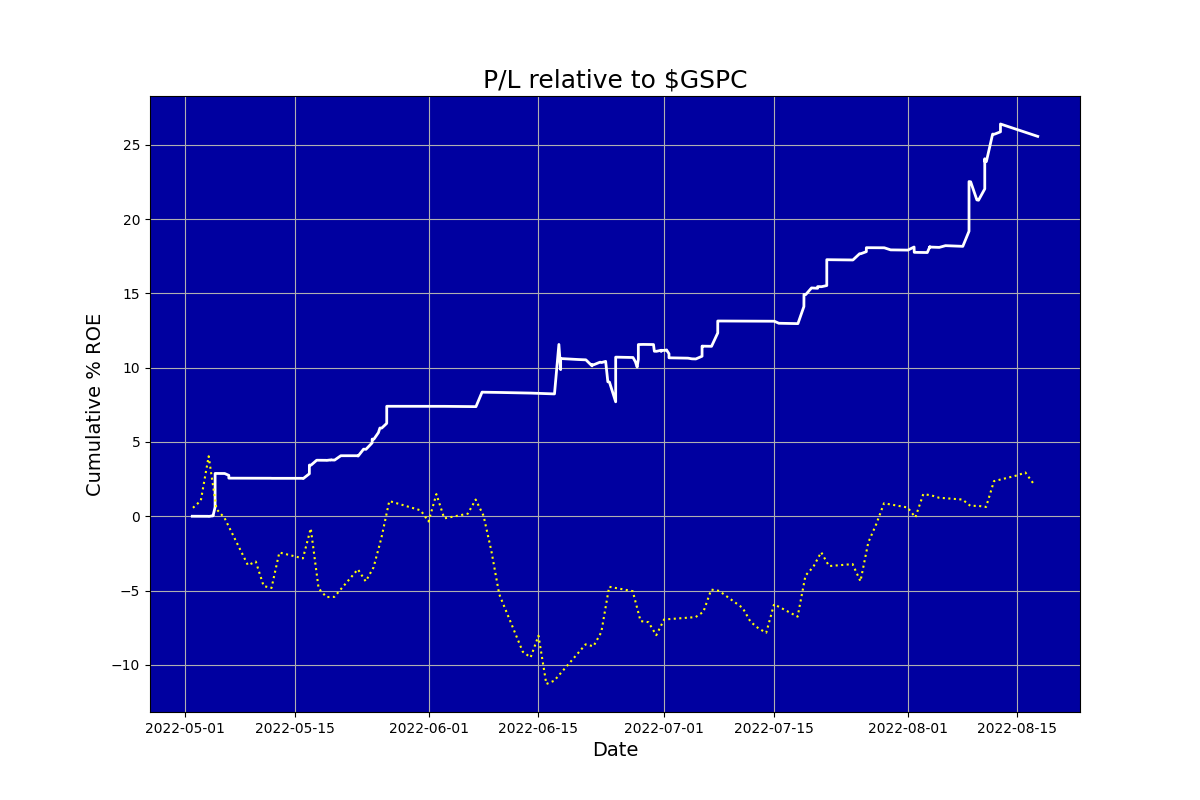
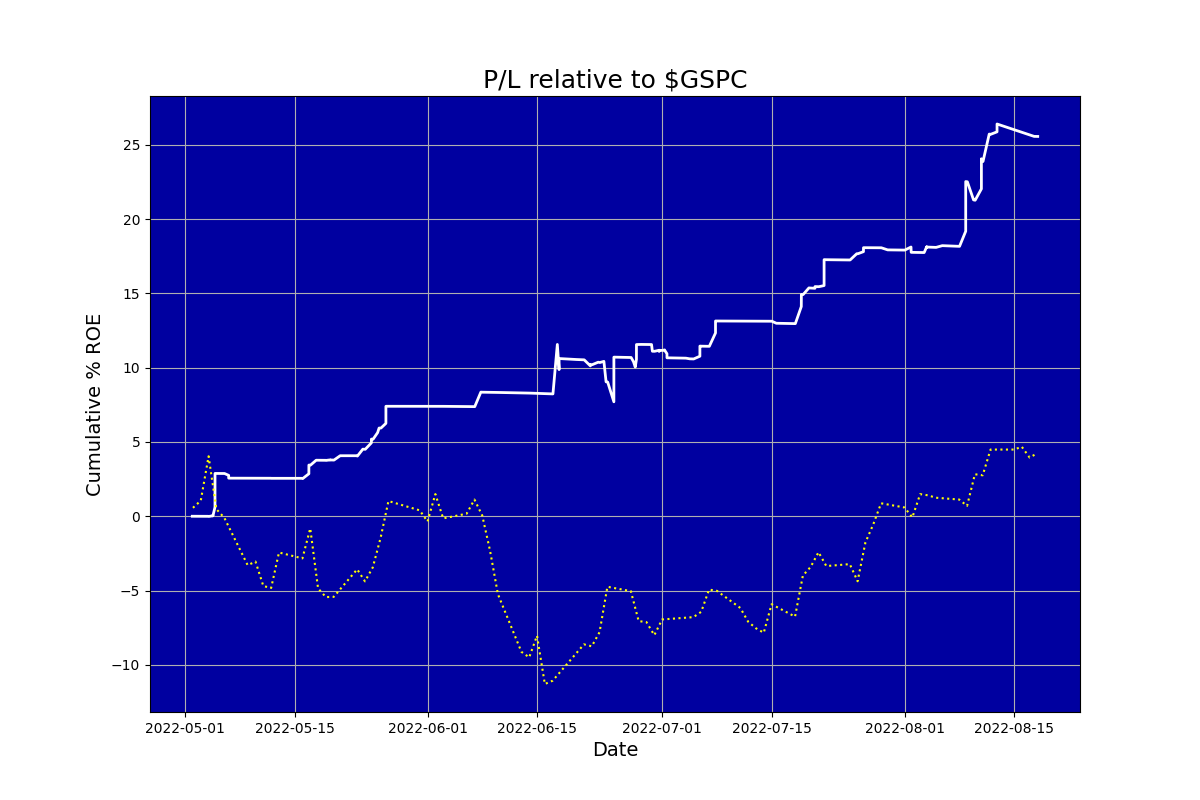
Updated

diff --git a/ig_report.html b/ig_report.html
@@ -1,1 +1,1 @@
-<html><body><center><h1>Auriel (never knowingly overbought)</h1></center><table cols=2><tr><td><img src=ig_pl.png></td><td><table cols=2><tr><td colspan=2><b><br>Snapshot</b></td></tr><tr><td>Last updated:&nbsp;&nbsp;&nbsp;</td><td>2022-08-17 18:43</td></tr><tr><td>Funds:&nbsp;&nbsp;&nbsp;</td><td>14788.89</td></tr><tr><td>Margin:&nbsp;&nbsp;&nbsp;</td><td>0.08</td></tr><tr><td>Cushion:&nbsp;&nbsp;&nbsp;</td><td>-1226.67</td></tr><tr><td>Last closed trade:&nbsp;&nbsp;&nbsp;</td><td>2022-08-17</td></tr><tr><td colspan=2><b><br>Positions</b></td></tr><tr><td>Mean days to new high:&nbsp;&nbsp;&nbsp;</td><td>1.86</td></tr><tr><td colspan=2><b><br>Trades</b></td></tr><tr><td>Num trades:&nbsp;&nbsp;&nbsp;</td><td>87</td></tr><tr><td>Pct winners:&nbsp;&nbsp;&nbsp;</td><td>73.56</td></tr><tr><td>Pct beating benchmark:&nbsp;&nbsp;&nbsp;</td><td>69.77</td></tr><tr><td>Pct profitable months:&nbsp;&nbsp;&nbsp;</td><td>100.00</td></tr><tr><td colspan=2><b><br>Performance</b></td></tr><tr><td>Pct median monthly ROE:&nbsp;&nbsp;&nbsp;</td><td>7.13</td></tr><tr><td>Pct annualised ROE:&nbsp;&nbsp;&nbsp;</td><td>163.02</td></tr><tr><td colspan=2><b><br>Risk</b></td></tr><tr><td>Volatility pct:&nbsp;&nbsp;&nbsp;</td><td>18.08</td></tr><tr><td>Benchmark volatility pct:&nbsp;&nbsp;&nbsp;</td><td>25.16</td></tr><tr><td>Sharpe ratio:&nbsp;&nbsp;&nbsp;</td><td>8.95</td></tr><tr><td>Calmar ratio:&nbsp;&nbsp;&nbsp;</td><td>42.92</td></tr><tr><td>Worst drawdown pct:&nbsp;&nbsp;&nbsp;</td><td>-0.04</td></tr><tr><td>Recovery days from worst drawdown:&nbsp;&nbsp;&nbsp;</td><td>9.00</td></tr><tr><td>Beat benchmark +ve periods pct:&nbsp;&nbsp;&nbsp;</td><td>0.74</td></tr><tr><td>Beat benchmark -ve periods pct:&nbsp;&nbsp;&nbsp;</td><td>1.00</td></tr><tr><td>Correlation with benchmark:&nbsp;&nbsp;&nbsp;</td><td>0.14</td></tr></table></td></tr></table></body></html>
+<html><body><center><h1>Auriel (never knowingly overbought)</h1></center><table cols=2><tr><td><img src=ig_pl.png></td><td><table cols=2><tr><td colspan=2><b><br>Snapshot</b></td></tr><tr><td>Last updated:&nbsp;&nbsp;&nbsp;</td><td>2022-08-18 15:57</td></tr><tr><td>Funds:&nbsp;&nbsp;&nbsp;</td><td>14788.32</td></tr><tr><td>Margin:&nbsp;&nbsp;&nbsp;</td><td>0.19</td></tr><tr><td>Cushion:&nbsp;&nbsp;&nbsp;</td><td>-1227.01</td></tr><tr><td>Last closed trade:&nbsp;&nbsp;&nbsp;</td><td>2022-08-18</td></tr><tr><td colspan=2><b><br>Positions</b></td></tr><tr><td>Mean days to new high:&nbsp;&nbsp;&nbsp;</td><td>1.86</td></tr><tr><td colspan=2><b><br>Trades</b></td></tr><tr><td>Num trades:&nbsp;&nbsp;&nbsp;</td><td>87</td></tr><tr><td>Pct winners:&nbsp;&nbsp;&nbsp;</td><td>73.56</td></tr><tr><td>Pct beating benchmark:&nbsp;&nbsp;&nbsp;</td><td>69.77</td></tr><tr><td>Pct profitable months:&nbsp;&nbsp;&nbsp;</td><td>100.00</td></tr><tr><td colspan=2><b><br>Performance</b></td></tr><tr><td>Pct median monthly ROE:&nbsp;&nbsp;&nbsp;</td><td>7.13</td></tr><tr><td>Pct annualised ROE:&nbsp;&nbsp;&nbsp;</td><td>163.02</td></tr><tr><td colspan=2><b><br>Risk</b></td></tr><tr><td>Volatility pct:&nbsp;&nbsp;&nbsp;</td><td>18.08</td></tr><tr><td>Benchmark volatility pct:&nbsp;&nbsp;&nbsp;</td><td>25.27</td></tr><tr><td>Sharpe ratio:&nbsp;&nbsp;&nbsp;</td><td>8.95</td></tr><tr><td>Calmar ratio:&nbsp;&nbsp;&nbsp;</td><td>42.92</td></tr><tr><td>Worst drawdown pct:&nbsp;&nbsp;&nbsp;</td><td>-0.04</td></tr><tr><td>Recovery days from worst drawdown:&nbsp;&nbsp;&nbsp;</td><td>9.00</td></tr><tr><td>Beat benchmark +ve periods pct:&nbsp;&nbsp;&nbsp;</td><td>0.75</td></tr><tr><td>Beat benchmark -ve periods pct:&nbsp;&nbsp;&nbsp;</td><td>1.00</td></tr><tr><td>Correlation with benchmark:&nbsp;&nbsp;&nbsp;</td><td>0.14</td></tr></table></td></tr></table></body></html>
